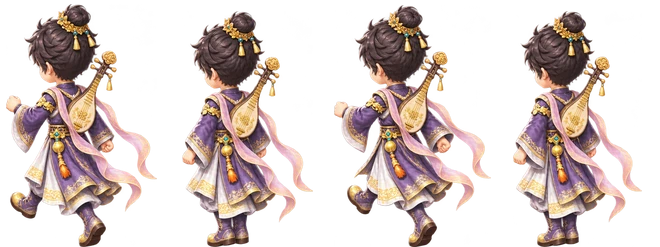
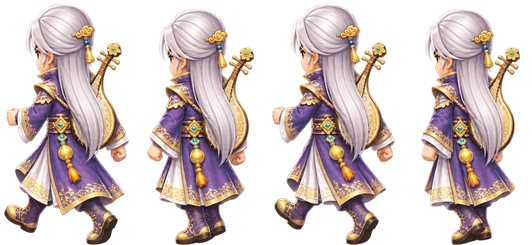
新手男女改用游戏本来的角色美术（游侠/剑姬），道家男角色形象接入
Claude-Session: https://claude.ai/code/session_01Ug7SvjxsTvGWtWQTYLfcGg

diff --git a/js/assets.js b/js/assets.js
@@ -4,7 +4,9 @@ window.ASSETS = {
   "axiu": "assets/axiu.webp",
   "b_axiu": "assets/b_axiu.webp",
   "b_dao_qm": "assets/b_dao_qm.webp",
+  "b_dao_qm_m": "assets/b_dao_qm_m.webp",
   "b_dao_ty": "assets/b_dao_ty.webp",
+  "b_dao_ty_m": "assets/b_dao_ty_m.webp",
   "b_deer": "assets/b_deer.webp",
   "b_fox": "assets/b_fox.webp",
   "b_girl": "assets/b_girl.webp",
@@ -32,7 +34,9 @@ window.ASSETS = {
   "boar": "assets/boar.webp",
   "boss": "assets/boss.webp",
   "cls_dao_qm": "assets/cls_dao_qm.webp",
+  "cls_dao_qm_m": "assets/cls_dao_qm_m.webp",
   "cls_dao_ty": "assets/cls_dao_ty.webp",
+  "cls_dao_ty_m": "assets/cls_dao_ty_m.webp",
   "cls_f_bow": "assets/cls_f_bow.webp",
   "cls_f_heal": "assets/cls_f_heal.webp",
   "cls_f_sword": "assets/cls_f_sword.webp",
@@ -58,7 +62,9 @@ window.ASSETS = {
   "grunt": "assets/grunt.webp",
   "head_axiu": "assets/head_axiu.webp",
   "head_dao_qm": "assets/head_dao_qm.webp",
+  "head_dao_qm_m": "assets/head_dao_qm_m.webp",
   "head_dao_ty": "assets/head_dao_ty.webp",
+  "head_dao_ty_m": "assets/head_dao_ty_m.webp",
   "head_elder": "assets/head_elder.webp",
   "head_f_bow": "assets/head_f_bow.webp",
   "head_f_heal": "assets/head_f_heal.webp",
@@ -171,12 +177,16 @@ window.ASSETS = {
   "waiter": "assets/waiter.webp",
   "walk_b": "assets/walk_b.webp",
   "walk_b_dao_qm": "assets/walk_b_dao_qm.webp",
+  "walk_b_dao_qm_m": "assets/walk_b_dao_qm_m.webp",
   "walk_b_dao_ty": "assets/walk_b_dao_ty.webp",
+  "walk_b_dao_ty_m": "assets/walk_b_dao_ty_m.webp",
   "walk_b_novice_f": "assets/walk_b_novice_f.webp",
   "walk_b_novice_m": "assets/walk_b_novice_m.webp",
   "walk_f": "assets/walk_f.webp",
   "walk_f_dao_qm": "assets/walk_f_dao_qm.webp",
+  "walk_f_dao_qm_m": "assets/walk_f_dao_qm_m.webp",
   "walk_f_dao_ty": "assets/walk_f_dao_ty.webp",
+  "walk_f_dao_ty_m": "assets/walk_f_dao_ty_m.webp",
   "walk_f_novice_f": "assets/walk_f_novice_f.webp",
   "walk_f_novice_m": "assets/walk_f_novice_m.webp",
   "wolf": "assets/wolf.webp",
@@ -372,17 +382,45 @@ window.ASSETS = {
    126.0
   ],
   "walk_f_novice_m": [
-   56.5,
+   65.5,
    120.0,
-   30.161054172767205
+   24.374508261211645
   ],
   "walk_b_novice_m": [
-   60.5,
-   124.5,
-   29.838660578386605
+   68.0,
+   123.0,
+   30.548387096774196
   ],
   "b_novice_m": [
-   64.5,
+   72.5,
+   126.0
+  ],
+  "walk_f_dao_ty_m": [
+   67.5,
+   121.5,
+   34.97190584662111
+  ],
+  "walk_b_dao_ty_m": [
+   66.5,
+   122.5,
+   36.781015820149875
+  ],
+  "walk_f_dao_qm_m": [
+   62.5,
+   123.0,
+   31.27342549923195
+  ],
+  "walk_b_dao_qm_m": [
+   68.5,
+   120.5,
+   31.071155317521043
+  ],
+  "b_dao_ty_m": [
+   69.5,
+   126.0
+  ],
+  "b_dao_qm_m": [
+   91.0,
    126.0
   ],
   "kk_npc14": [

diff --git a/js/data.js b/js/data.js
@@ -58,10 +58,10 @@ window.DATA = {
   // 可选职业：男女各三种。stats 是创建界面上的五维条（1-5），只用于展示
   classes: {
     // ---- 新手：创角页只有这两个（男女各一）。女角色在剧情里拜入道家后，才变成天音 / 琴魔的形象（game.js joinSect）----
-    novice_f: { name: '新手', gender: 'f', role: '近战 · 拳脚', weapon: '无', joinSect: ['dao_ty', 'dao_qm'],
-      desc: '刚下山的少女，布衣素裙，什么门派都还没入。到了清溪边，遇到各家接引师，再决定要走哪条路。', stats: { 攻击: 3, 防御: 3, 速度: 3, 法术: 3, 气血: 3 } },
-    novice_m: { name: '新手', gender: 'm', role: '近战 · 棍', weapon: '木棍', joinSect: ['dao_ty_m', 'dao_qm_m'],
-      desc: '刚出山的少年，麻衣木棍，样样都会一点。路还很长，先把清溪的事了了。', stats: { 攻击: 3, 防御: 3, 速度: 3, 法术: 3, 气血: 3 } },
+    novice_f: { name: '新手', gender: 'f', role: '近战 · 剑', weapon: '剑', joinSect: ['dao_ty', 'dao_qm'],
+      desc: '初出江湖的少女，仗剑而行，什么门派都还没入。到了清溪边，遇到各家接引师，再决定要走哪条路。', stats: { 攻击: 3, 防御: 3, 速度: 3, 法术: 3, 气血: 3 } },
+    novice_m: { name: '新手', gender: 'm', role: '近战 · 剑', weapon: '剑', joinSect: ['dao_ty_m', 'dao_qm_m'],
+      desc: '初出江湖的少年，仗剑而行，样样都会一点。路还很长，先把清溪的事了了。', stats: { 攻击: 3, 防御: 3, 速度: 3, 法术: 3, 气血: 3 } },
     // ---- 道家（女）两个分堂：技能参考 kunkunxunqin（data_skill_defs 的 qm / ty），数值按本游戏的回合制重新折算 ----
     dao_ty: { name: '天音', sect: '道家', gender: 'f', role: '辅助 · 琵琶', weapon: '琵琶', magicAtk: true,
       desc: '道家天音分堂，怀抱琵琶，以曲音疗伤、护体、返魂。队伍里最可靠的后盾，自己也能用荡魔曲出手。', stats: { 攻击: 1, 防御: 3, 速度: 3, 法术: 4, 气血: 4 },

diff --git a/build.py b/build.py
@@ -172,13 +172,10 @@ def dao_head(c,name):
 for n,src in [('dao_ty',DA+'/port_ty.png' if os.path.exists(DA+'/port_ty.png') else DA+'/ref.png'),('dao_qm',DA+'/port_qm.png')]:
     c=keyed(src); c=c.crop(c.getchannel('A').point(lambda v:255 if v>40 else 0).getbbox())
     c=c.resize((round(c.width*900/c.height),900),Image.LANCZOS); c.save(f'{AD}/cls_{n}.webp',quality=80,method=6); dao_head(c,n)
-# 新手男 / 女（创角页只有这两个；女角色拜入道家后换成上面的天音 / 琴魔）
-NV=G+'/novice'
-for k,n in [('nf','novice_f'),('nm','novice_m')]:
-    walk_sheet(f'{NV}/walkf_{k}.png','walk_f_'+n,118); walk_sheet(f'{NV}/walkb_{k}.png','walk_b_'+n,118)
-    cut_row(f'{NV}/back_{k}.png',['b_'+n],{'b_'+n:126})
-    c=keyed(f'{NV}/port_{k}.png'); c=c.crop(c.getchannel('A').point(lambda v:255 if v>40 else 0).getbbox())
-    c=c.resize((round(c.width*900/c.height),900),Image.LANCZOS); c.save(f'{AD}/cls_{n}.webp',quality=80,method=6); dao_head(c,n)
+# 新手男 / 女：用游戏本来的角色美术（男＝游侠 m_sword，女＝剑姬 f_sword）；没有专属行走图 / 战斗背影，走默认的 walk_f / walk_b / b_player。
+# （之前生成的 Q 版新手图还留在 art-src/novice/，当前不参与构建）
+for n,o in [('novice_m','m_sword'),('novice_f','f_sword')]:
+    shutil.copy(f'{AD}/cls_{o}.webp',f'{AD}/cls_{n}.webp'); shutil.copy(f'{AD}/head_{o}.webp',f'{AD}/head_{n}.webp')
 # 道家男角色（天音 / 琴魔）：人物参考新手男，风格参考女主
 DM=G+'/daoist-m'
 for k in ['ty','qm']:

diff --git a/docs/CLASSES.md b/docs/CLASSES.md
@@ -1,7 +1,7 @@
 # 职业与技能
 
 ## 创角与入派
-创角页只有两个角色：**新手（男）** 和 **新手（女）**，都是 Q 版画风的布衣新手（美术在 `art-src/novice/`，提示词 `art-src/prompts/*_nf|nm.txt`，脚本 `tools/gen_novice.sh`）。
+创角页只有两个角色：**新手（男）** 和 **新手（女）**，用游戏本来的角色美术（男＝游侠 `m_sword`，女＝剑姬 `f_sword` 的立绘和头像；地图行走和战斗背影走默认的 `walk_f` / `walk_b` / `b_player`）。早先生成的 Q 版新手图留在 `art-src/novice/`，当前不参与构建。
 女新手走到主线「道家之衡」、与道家接引师交谈完后，弹出「拜入门派」选天音 / 琴魔，职业和形象（行走图、战斗背影、立绘、头像）随之切换（`game.js` 的 `offerSect` / `changeClass`，职业表里 `joinSect` 字段）。男新手暂无门派，入派流程以后按同一机制加。
 
 ## 道家女主
